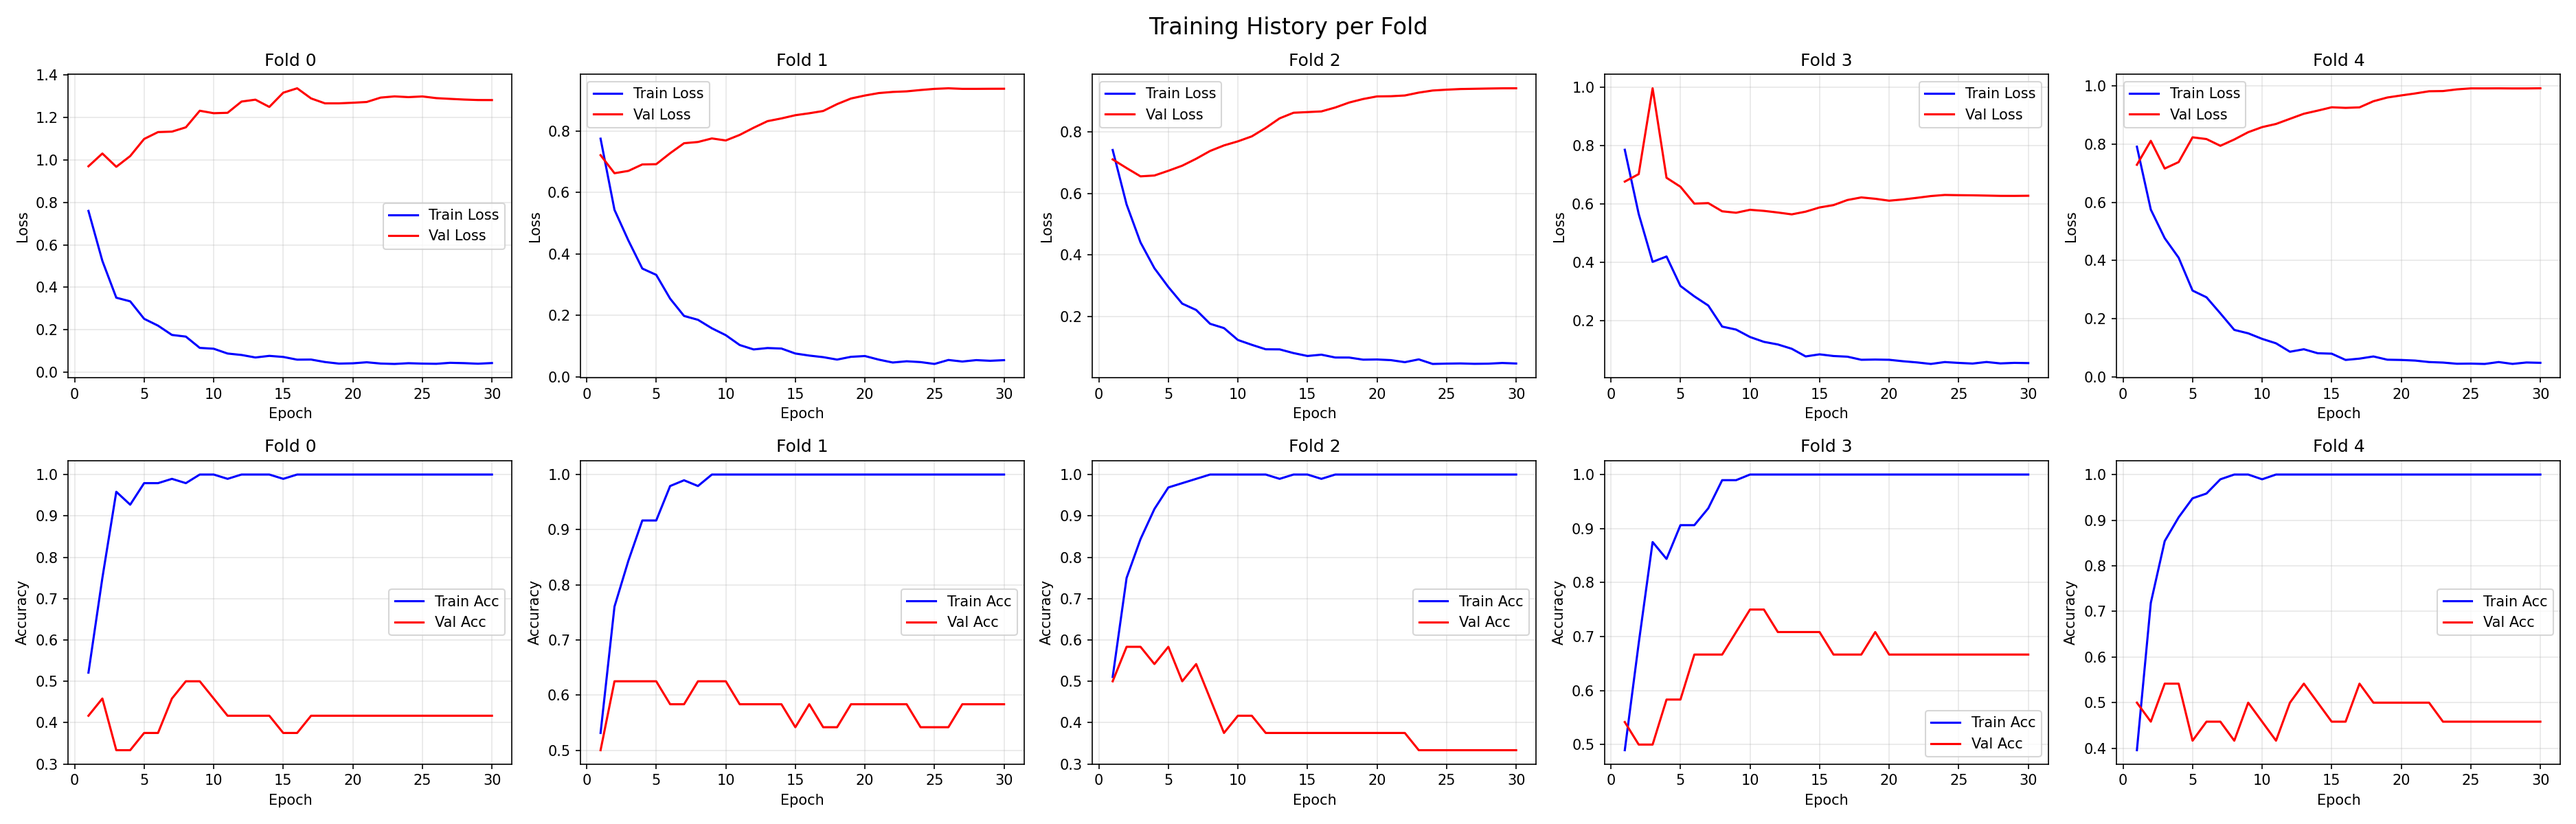
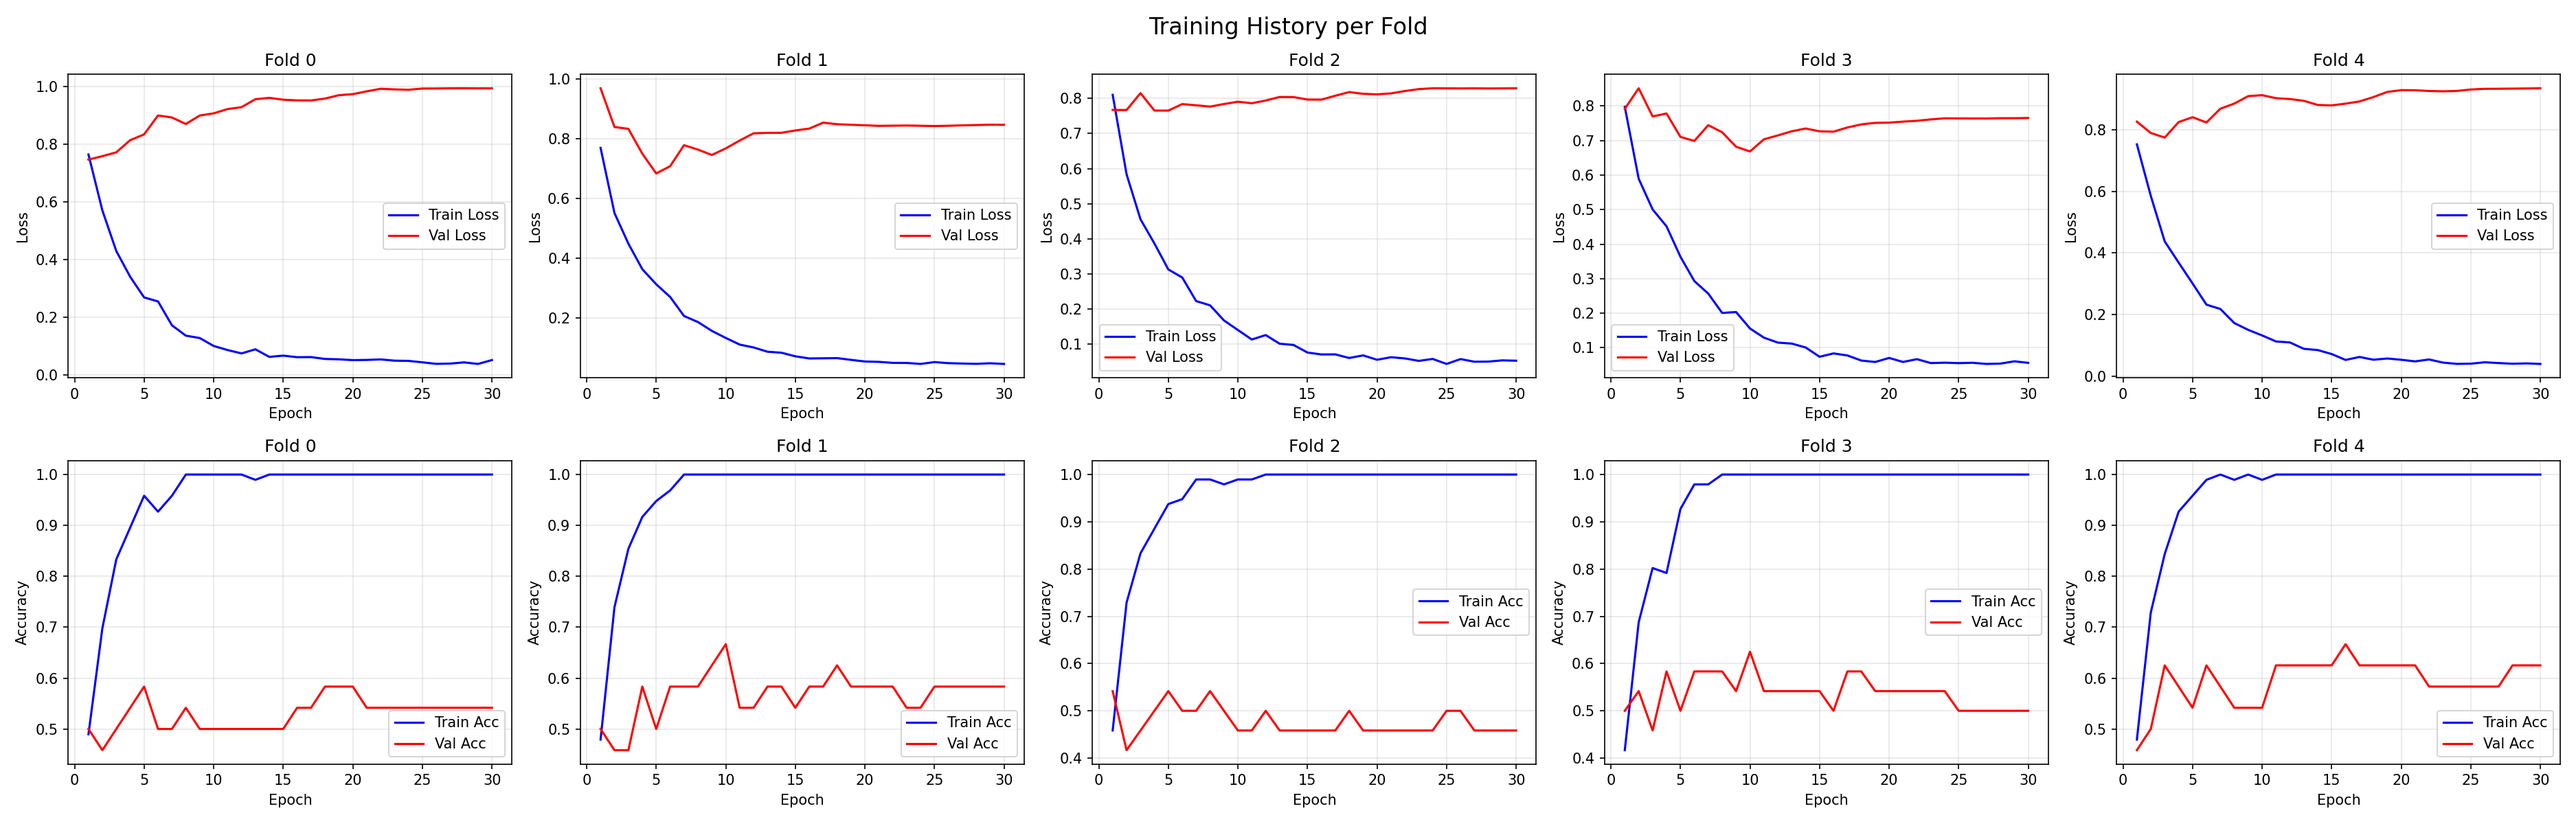
shock

diff --git a/dataloader/dataset_XWStroke.py b/dataloader/dataset_XWStroke.py
@@ -5,7 +5,7 @@ from torch.utils.data import Dataset
 # from braindecode.preprocessing import Preprocessor, preprocess, PreprocessingPipeline
 import constant_value
 import utils
-from preprocessing import bandpass
+from preprocessing.filter_banks import bandpass_filter
 
 class XWStrokeDataset(Dataset):
     """
@@ -67,7 +67,7 @@ class XWStrokeDataset(Dataset):
         print(eeg_data.shape)
         band_data_list = []
         for band_idx, (l_freq, h_freq) in enumerate(self.filter_banks):
-            filtered_data = bandpass.bandpass_filter(eeg_data,
+            filtered_data = bandpass_filter(eeg_data,
                                                  low_freq=l_freq,
                                                  high_freq=h_freq,
                                                  sfreq=self.sample_rate)

diff --git a/dataloader/dataset_BCICIV2a.py b/dataloader/dataset_BCICIV2a.py
@@ -10,7 +10,7 @@ import yaml
 import pandas as pd
 import os
 
-from preprocessing.bandpass import bandpass_filter
+from preprocessing.filter_banks import bandpass_filter
 import constant_value  
 
 
